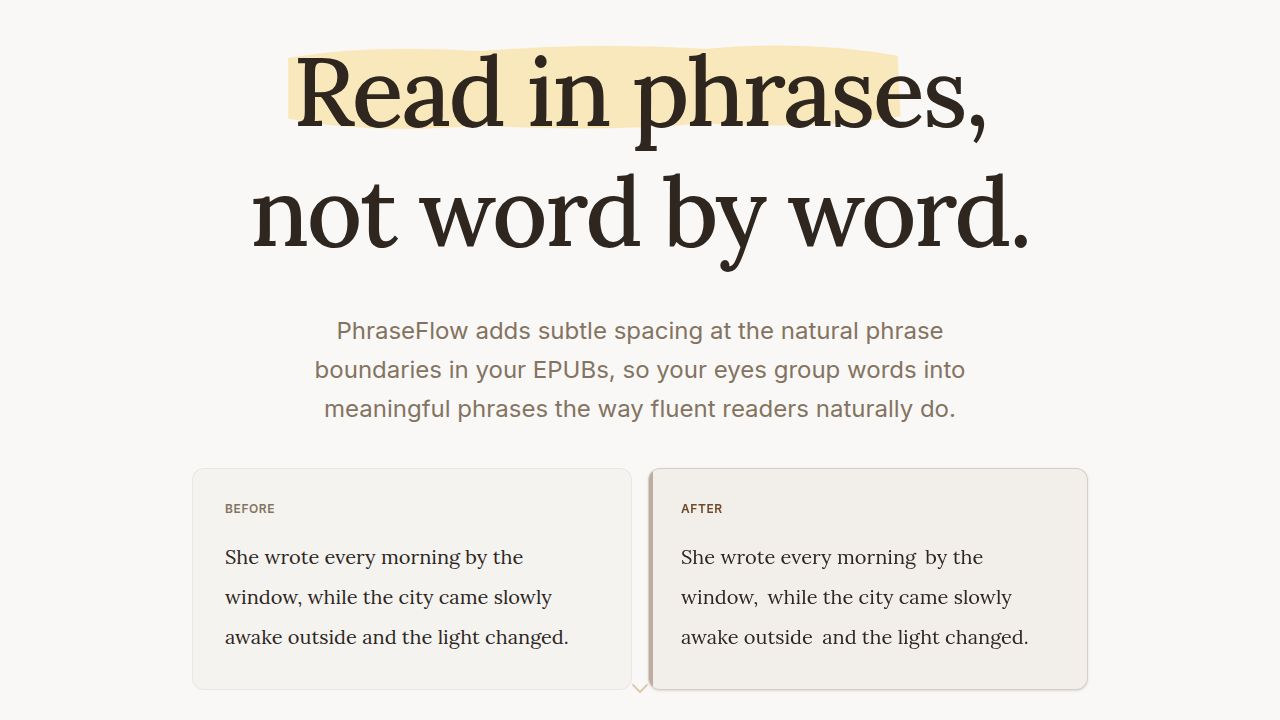
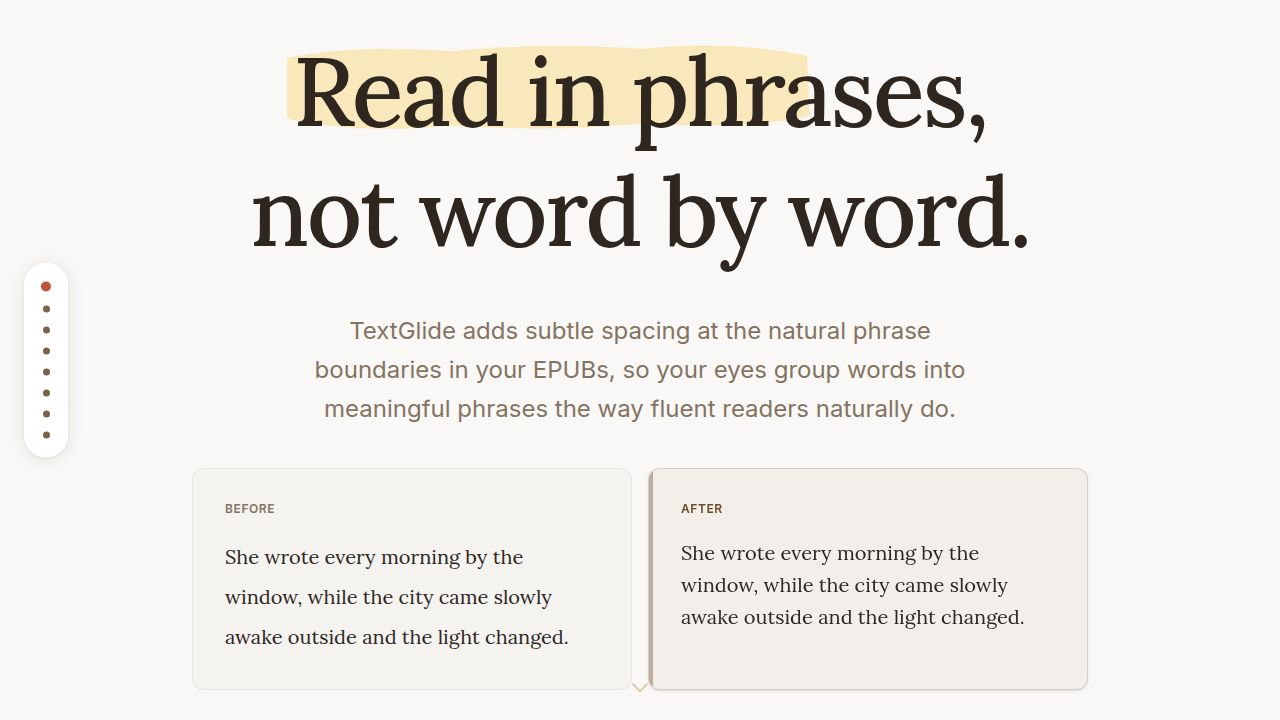
Add navigation rail to guide users through application sections
Introduces a sticky navigation rail component with scroll-to-section functionality and hover effects.

Replit-Commit-Author: Agent
Replit-Commit-Session-Id: 268da381-1d08-445f-afd9-6733b599709f
Replit-Commit-Checkpoint-Type: full_checkpoint
Replit-Commit-Event-Id: 8f6135b3-44c5-457e-a6d8-5cba3cb283bd
Replit-Commit-Screenshot-Url: https://storage.googleapis.com/screenshot-production-us-central1/56ec03a8-ec7d-4304-8d92-761f1efab460/268da381-1d08-445f-afd9-6733b599709f/7PmjzHf
Replit-Helium-Checkpoint-Created: true

diff --git a/artifacts/epub-injector/src/App.tsx b/artifacts/epub-injector/src/App.tsx
@@ -121,6 +121,223 @@ function SweepPhrase({
   );
 }
 
+const NAV_ITEMS = [
+  { id: "section-home",    label: "Home",    tooltip: "Home" },
+  { id: "section-try",     label: "Try",     tooltip: "Try it live" },
+  { id: "section-process", label: "Process", tooltip: "Process your EPUB" },
+  { id: "section-usage",   label: "Usage",   tooltip: "How to use" },
+  { id: "section-science", label: "Science", tooltip: "How it works & the science" },
+  { id: "section-faq",     label: "FAQ",     tooltip: "Frequently asked questions" },
+  { id: "section-refs",    label: "Refs",    tooltip: "References" },
+  { id: "section-origin",  label: "Origin",  tooltip: "Why it exists" },
+] as const;
+
+function NavRail() {
+  const [activeId, setActiveId] = useState<string | null>(null);
+  const [hoveredId, setHoveredId] = useState<string | null>(null);
+  const [mobileOpen, setMobileOpen] = useState(false);
+
+  useEffect(() => {
+    const intersecting = new Set<string>();
+    const observers: IntersectionObserver[] = [];
+    NAV_ITEMS.forEach(({ id }) => {
+      const el = document.getElementById(id);
+      if (!el) return;
+      const obs = new IntersectionObserver(
+        ([entry]) => {
+          if (entry.isIntersecting) intersecting.add(id);
+          else intersecting.delete(id);
+          const first = NAV_ITEMS.find((item) => intersecting.has(item.id));
+          setActiveId(first?.id ?? null);
+        },
+        { threshold: 0.15 },
+      );
+      obs.observe(el);
+      observers.push(obs);
+    });
+    return () => observers.forEach((o) => o.disconnect());
+  }, []);
+
+  const scrollTo = (id: string) => {
+    const el = document.getElementById(id);
+    if (el) el.scrollIntoView({ behavior: "smooth" });
+    setMobileOpen(false);
+  };
+
+  return (
+    <>
+      <nav
+        aria-label="Page sections"
+        className="nav-rail-desktop"
+        style={{
+          position: "fixed",
+          left: 24,
+          top: "50%",
+          transform: "translateY(-50%)",
+          zIndex: 1000,
+          display: "flex",
+          flexDirection: "column",
+          alignItems: "center",
+          padding: "12px 0",
+          width: 44,
+          backgroundColor: "#FFFFFF",
+          borderRadius: 24,
+          boxShadow: "0 2px 16px rgba(60,40,20,0.10), 0 1px 4px rgba(60,40,20,0.06)",
+        }}
+      >
+        {NAV_ITEMS.map(({ id, label, tooltip }) => {
+          const isActive = activeId === id;
+          const isHovered = hoveredId === id;
+          return (
+            <div
+              key={id}
+              style={{ position: "relative", display: "flex", alignItems: "center", margin: "7px 0" }}
+              onMouseEnter={() => setHoveredId(id)}
+              onMouseLeave={() => setHoveredId(null)}
+            >
+              <button
+                onClick={() => scrollTo(id)}
+                aria-label={label}
+                style={{
+                  width: isActive ? 10 : isHovered ? 9 : 7,
+                  height: isActive ? 10 : isHovered ? 9 : 7,
+                  borderRadius: "50%",
+                  background: isActive || isHovered ? "#C0533A" : "#7A6349",
+                  border: "none",
+                  cursor: "pointer",
+                  padding: 0,
+                  transition: "all 150ms ease",
+                  display: "block",
+                }}
+              />
+              {isHovered && (
+                <div
+                  style={{
+                    position: "absolute",
+                    left: "calc(100% + 10px)",
+                    top: "50%",
+                    transform: "translateY(-50%)",
+                    backgroundColor: "#2a2016",
+                    color: "#FFFFFF",
+                    fontSize: 12,
+                    lineHeight: "1.4",
+                    padding: "4px 10px",
+                    borderRadius: 20,
+                    whiteSpace: "nowrap",
+                    pointerEvents: "none",
+                    animation: "navTooltipFade 150ms ease forwards",
+                    fontFamily: "inherit",
+                  }}
+                >
+                  {tooltip}
+                </div>
+              )}
+            </div>
+          );
+        })}
+      </nav>
+
+      <button
+        className="nav-rail-mobile"
+        onClick={() => setMobileOpen(true)}
+        aria-label="Open navigation menu"
+        style={{
+          position: "fixed",
+          top: 16,
+          left: 16,
+          zIndex: 1000,
+          width: 40,
+          height: 40,
+          borderRadius: "50%",
+          backgroundColor: "#FFFFFF",
+          boxShadow: "0 2px 10px rgba(60,40,20,0.12)",
+          border: "none",
+          cursor: "pointer",
+          display: "flex",
+          alignItems: "center",
+          justifyContent: "center",
+        }}
+      >
+        <svg width="18" height="14" viewBox="0 0 18 14" fill="none" aria-hidden="true">
+          <rect x="0" y="0"  width="18" height="2" rx="1" fill="#3D2F1F" />
+          <rect x="0" y="6"  width="18" height="2" rx="1" fill="#3D2F1F" />
+          <rect x="0" y="12" width="18" height="2" rx="1" fill="#3D2F1F" />
+        </svg>
+      </button>
+
+      {mobileOpen && (
+        <>
+          <div
+            aria-hidden="true"
+            onClick={() => setMobileOpen(false)}
+            style={{
+              position: "fixed",
+              inset: 0,
+              backgroundColor: "rgba(0,0,0,0.45)",
+              zIndex: 1001,
+              animation: "navOverlayFade 200ms ease forwards",
+            }}
+          />
+          <nav
+            aria-label="Page sections"
+            style={{
+              position: "fixed",
+              top: 0,
+              left: 0,
+              bottom: 0,
+              width: 220,
+              backgroundColor: "#FFFFFF",
+              zIndex: 1002,
+              padding: "20px 0 24px",
+              boxShadow: "4px 0 24px rgba(60,40,20,0.14)",
+              display: "flex",
+              flexDirection: "column",
+              animation: "navSlideIn 220ms ease forwards",
+            }}
+          >
+            <button
+              onClick={() => setMobileOpen(false)}
+              aria-label="Close navigation menu"
+              style={{
+                alignSelf: "flex-end",
+                marginRight: 16,
+                marginBottom: 16,
+                background: "none",
+                border: "none",
+                cursor: "pointer",
+                fontSize: 18,
+                color: "#3D2F1F",
+                lineHeight: 1,
+                padding: 4,
+              }}
+            >
+              ✕
+            </button>
+            {NAV_ITEMS.map(({ id, label }) => (
+              <button
+                key={id}
+                onClick={() => scrollTo(id)}
+                style={{
+                  textAlign: "left",
+                  padding: "12px 24px",
+                  background: "none",
+                  border: "none",
+                  cursor: "pointer",
+                  fontFamily: "inherit",
+                  fontSize: 16,
+                  color: "#3D2F1F",
+                }}
+              >
+                {label}
+              </button>
+            ))}
+          </nav>
+        </>
+      )}
+    </>
+  );
+}
+
 function Home() {
   const heroRef = useRef<HTMLElement>(null);
   const [heroVisible, setHeroVisible] = useState(true);
@@ -321,6 +538,7 @@ function Home() {
       className="min-h-screen pb-20 selection:bg-primary/20"
       data-testid="page-home"
     >
+      <NavRail />
       {/* keyframes */}
       <style>{`
         @keyframes gentleBounce {
@@ -380,6 +598,25 @@ function Home() {
           line-height: 0;
           animation: cursorPulse 1500ms ease-out forwards;
         }
+        html { scroll-behavior: smooth; }
+        @keyframes navTooltipFade {
+          from { opacity: 0; }
+          to   { opacity: 1; }
+        }
+        @keyframes navOverlayFade {
+          from { opacity: 0; }
+          to   { opacity: 1; }
+        }
+        @keyframes navSlideIn {
+          from { transform: translateX(-100%); }
+          to   { transform: translateX(0); }
+        }
+        @media (min-width: 768px) {
+          .nav-rail-mobile { display: none !important; }
+        }
+        @media (max-width: 767px) {
+          .nav-rail-desktop { display: none !important; }
+        }
         .after-text-mobile  { display: none; }
         .before-text-mobile { display: none; }
         @media (max-width: 640px) {
@@ -405,6 +642,7 @@ function Home() {
       {/* ── 1. Hero — full viewport ─────────────────────────────────────── */}
       <section
         ref={heroRef}
+        id="section-home"
         className="relative min-h-screen md:h-screen flex flex-col items-center justify-center text-center overflow-hidden px-6 py-16 md:py-0"
         data-testid="section-hero"
       >
@@ -476,7 +714,7 @@ function Home() {
         data-testid="main-content"
       >
         {/* 2. Live Preview */}
-        <section data-testid="section-preview">
+        <section id="section-try" data-testid="section-preview">
           <Card
             className="border-border/60 shadow-md bg-card/50 backdrop-blur-sm overflow-hidden"
             data-testid="card-preview"
@@ -774,7 +1012,7 @@ function Home() {
         </section>
 
         {/* 3. Upload & Process */}
-        <section data-testid="section-process">
+        <section id="section-process" data-testid="section-process">
           <div className="space-y-6">
             <h2
               className="font-serif text-3xl font-medium text-foreground"
@@ -968,6 +1206,7 @@ function Home() {
         {/* 4. How to use */}
         <section
           className="pt-8 border-t border-border/50 space-y-6"
+          id="section-usage"
           data-testid="section-how-to"
         >
           <h3 className="font-serif text-2xl text-foreground">How to use</h3>
@@ -1015,6 +1254,7 @@ function Home() {
         {/* 5. How it works and the science */}
         <section
           className="pt-8 border-t border-border/50 space-y-6"
+          id="section-science"
           data-testid="section-science"
         >
           <h3 className="font-serif text-2xl text-foreground">
@@ -1089,6 +1329,7 @@ function Home() {
         {/* FAQ */}
         <section
           className="pt-8 border-t border-border/50 space-y-6"
+          id="section-faq"
           data-testid="section-faq"
         >
           <h3 className="font-serif text-2xl text-foreground">Frequently Asked Questions</h3>
@@ -1142,6 +1383,7 @@ function Home() {
         {/* References */}
         <section
           className="pt-8 border-t border-border/50 space-y-6"
+          id="section-refs"
           data-testid="section-references"
         >
           <h3 className="font-serif text-2xl text-foreground">References</h3>
@@ -1167,6 +1409,7 @@ function Home() {
         {/* 6. Why it exists */}
         <section
           className="bg-muted/30 p-8 md:p-12 rounded-2xl border border-border/50 text-center space-y-6"
+          id="section-origin"
           data-testid="section-why"
         >
           <h3 className="font-serif text-2xl text-foreground">Why it exists</h3>